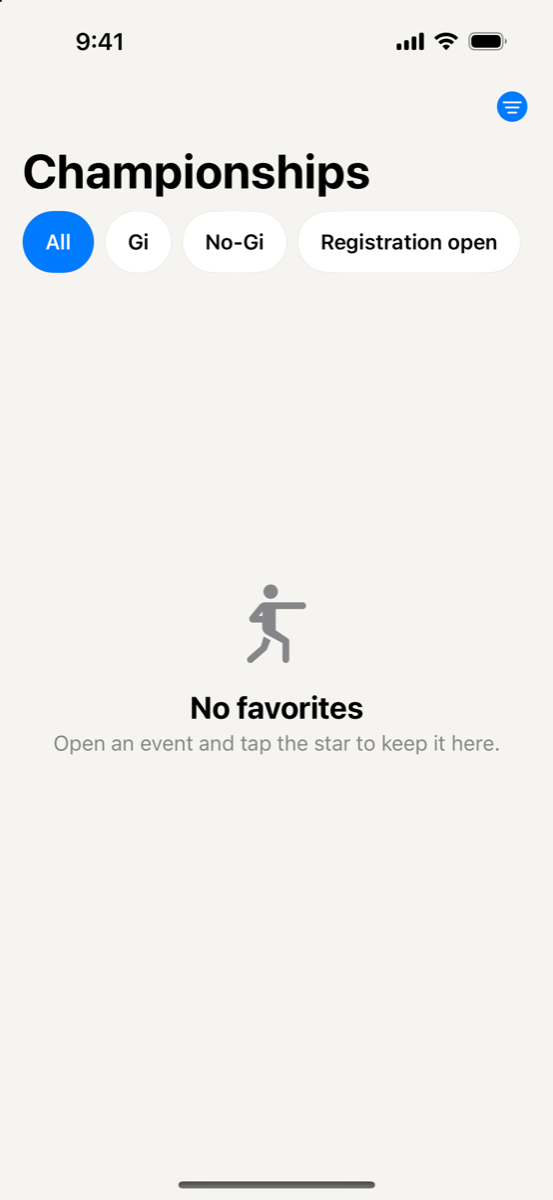
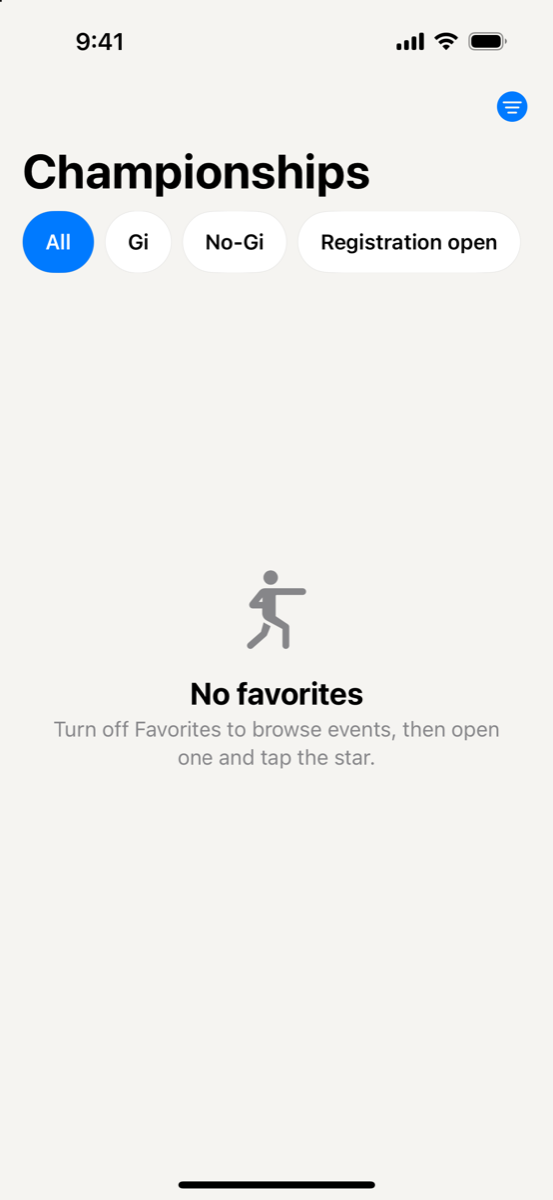
fix: Say how to reach events from the empty favorites screen
With Favorites on and nothing starred there's no card to open, so the
empty state now says to turn Favorites off first. The reset item also
turns Favorites off, and its label now says so.

Changed region(s): [[0.0922, 0.4625, 0.8915, 0.6475], [0.3074, 0.9867, 0.6763, 1.0]]

diff --git a/PeteBJJCompFeed/PeteBJJCompFeedSwiftUITests/FeedLocalizationTests.swift b/PeteBJJCompFeed/PeteBJJCompFeedSwiftUITests/FeedLocalizationTests.swift
@@ -36,6 +36,13 @@ struct FeedLocalizationTests {
         #expect(english(.feedFilterRegistrationOpen) == "Registration open")
     }
 
+    /// With Favorites on and nothing starred there's no card to open, and the
+    /// reset item also turns Favorites off, so both say so.
+    @Test func favoritesCopy_pointsBackToTheFullFeedAndNamesEverythingResetClears() {
+        #expect(english(.feedFavoritesEmptyDescription) == "Turn off Favorites to browse events, then open one and tap the star.")
+        #expect(english(.feedRefineReset) == "Show all dates, locations, and favorites")
+    }
+
     // MARK: - Helpers
 
     private func english(_ resource: LocalizedStringResource) -> String {
